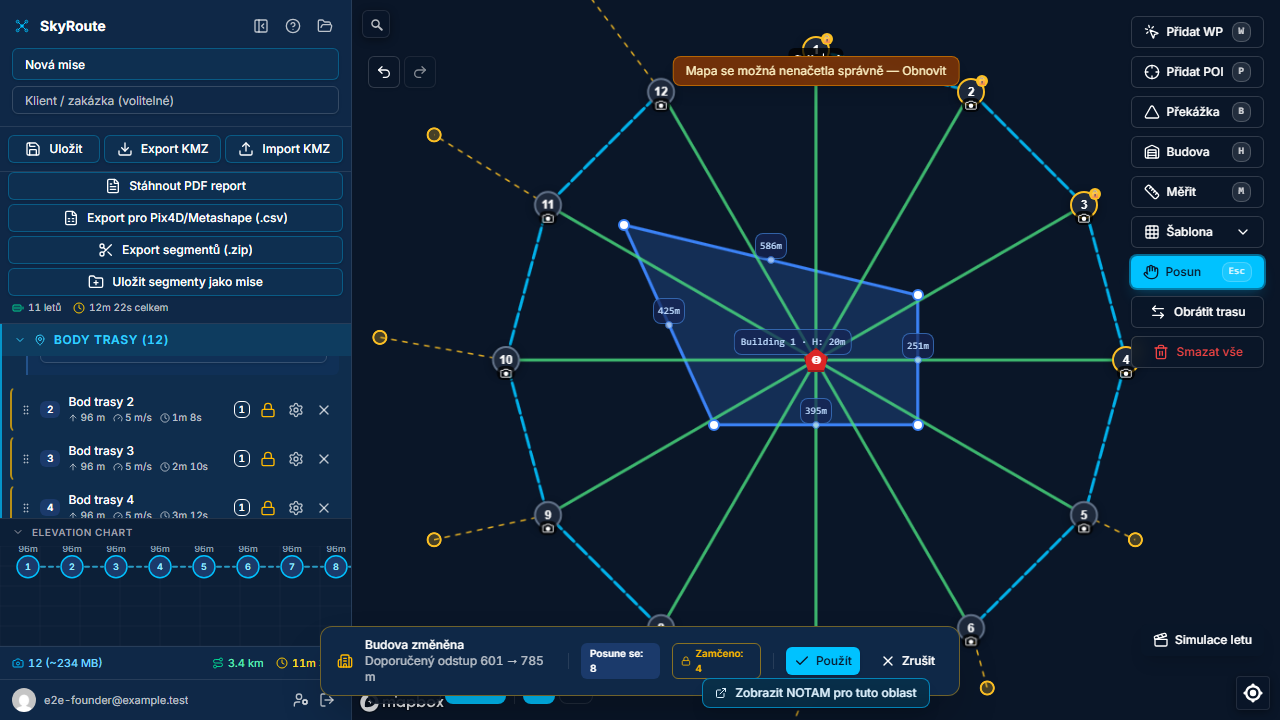
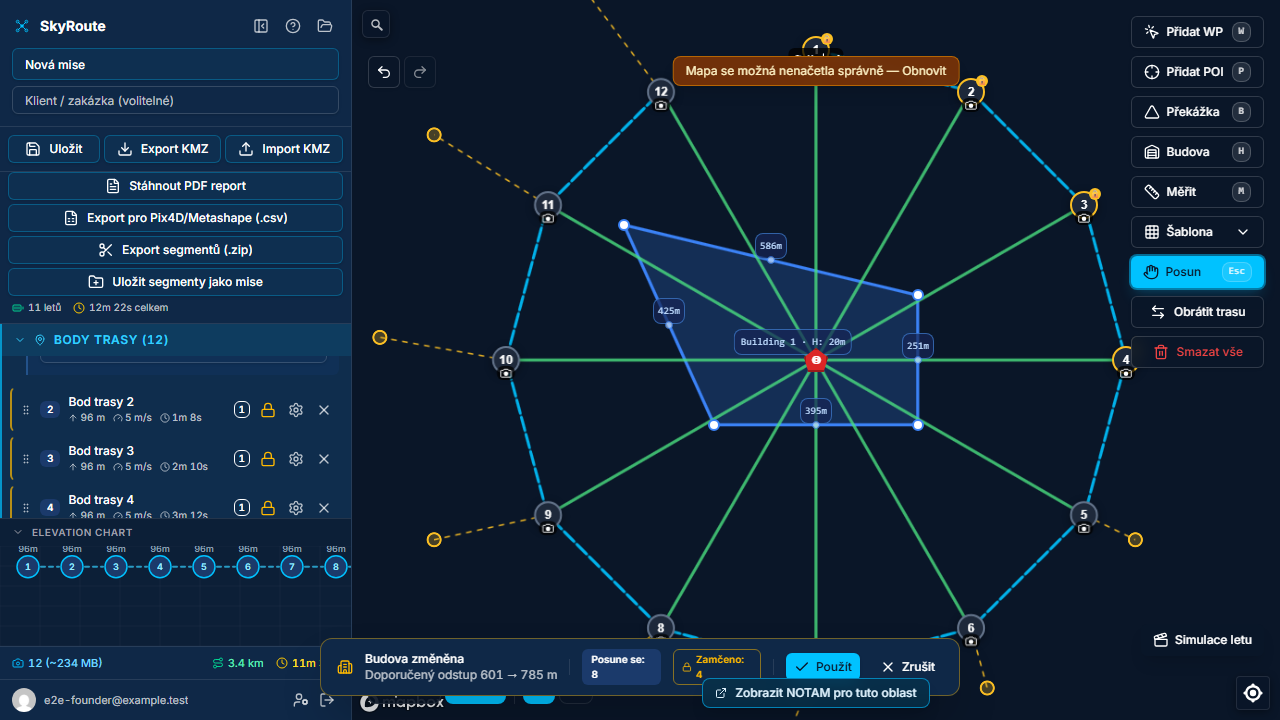
fix: keep the bottom action bars inside a phone screen (#175)
* chore: automatická záloha před git checkout

Rozdělaná práce (8 souborů) se ukládá, aby ji následující operace
nepřepsala. Commit vytvořil hook-autocommit.js.

* chore: keep local agent scratch out of the repo

Local editor tooling writes .claude/agent-memory notes and *.bak copies
beside the files it touches, and they had started riding along into commits.
Ignore both and drop the ones already tracked.

Claude-Session: https://claude.ai/code/session_01Gdo9hMyB1CAYq6KYDzVp6v

---------

Changed region(s): [[0.25, 0.8556, 0.75, 0.9778]]

diff --git a/e2e/tests/waypoint-lock-building-reflow.spec.ts b/e2e/tests/waypoint-lock-building-reflow.spec.ts
@@ -34,9 +34,6 @@ async function drawBuildingAndOrbit(page: Page) {
   await page.mouse.move(cx + 110, cy + 70, { steps: 10 });
   await page.mouse.up();
   await page.getByRole("button", { name: "Použít" }).last().click();
-  await expect(page.getByText(/^BUDOVY \(1\)$/i)).toBeVisible({
-    timeout: 10_000,
-  });
 
   // Same retry-until-painted dance as the building-menu spec: the fill layer
   // has to be rasterized before a click can find the building.
@@ -48,9 +45,12 @@ async function drawBuildingAndOrbit(page: Page) {
   await orbitFromMenu.click();
   await page.getByRole("button", { name: "Použít" }).last().click();
 
-  await expect(page.getByText(/^BODY TRASY \(\d+\)$/i)).toBeVisible({
-    timeout: 10_000,
-  });
+  // Waits on the map, not the sidebar: on a phone the panels start closed
+  // (App's `panelsHidden` default), so the sidebar headings aren't rendered
+  // and this helper has to work in both layouts.
+  await expect
+    .poll(() => page.locator(".mapboxgl-marker").count(), { timeout: 10_000 })
+    .toBeGreaterThan(5);
   return { cx, cy };
 }
 
@@ -140,5 +140,61 @@ test.describe("Waypoint locks and building reflow", () => {
 
     await page.getByRole("button", { name: "Použít" }).last().click();
     await expect(reflowBar).toBeHidden({ timeout: 10_000 });
+  });
+
+  test("both bottom bars stay inside a 375px viewport, with every button reachable", async ({
+    page,
+  }) => {
+    await page.setViewportSize({ width: 375, height: 812 });
+    await blockMapboxNetwork(page);
+    await dismissWelcomeDialogOnLoad(page);
+    await page.goto("/");
+    // A phone opens straight into the map with the panels closed (see App's
+    // `panelsHidden` default), so wait on the canvas, not the sidebar.
+    await page
+      .locator(".mapboxgl-canvas")
+      .first()
+      .waitFor({ state: "visible", timeout: 20_000 });
+
+    await drawBuildingAndOrbit(page);
+
+    await page.getByRole("button", { name: "Zobrazit panely (Tab)" }).click();
+    const firstRow = page.getByText("Bod trasy 1", { exact: true });
+    await expect(firstRow).toBeVisible({ timeout: 10_000 });
+    await firstRow.click();
+    await page
+      .getByText("Bod trasy 3", { exact: true })
+      .click({ modifiers: ["Shift"] });
+
+    // The selection bar outgrew a phone once it gained the lock button. It may
+    // scroll horizontally, but it must not lay itself out past the viewport
+    // with buttons stranded off-screen where nothing can reach them.
+    const selectionBar = page
+      .getByText("Vybráno:")
+      .locator('xpath=ancestor::div[contains(@class,"rounded-xl")][1]');
+    const barBox = await selectionBar.boundingBox();
+    expect(barBox).not.toBeNull();
+    expect(barBox!.x).toBeGreaterThanOrEqual(-1);
+    expect(barBox!.x + barBox!.width).toBeLessThanOrEqual(376);
+
+    // On a phone the sidebar is a drawer covering most of the screen, so close
+    // it before reaching for the bar underneath — that's the order an operator
+    // works in too.
+    await page.getByRole("button", { name: /Skrýt panely/ }).click();
+
+    // Playwright scrolls a target into its scroll container before clicking, so
+    // a successful click on the far-right button is the real reachability test.
+    await page.getByRole("button", { name: "Zamknout", exact: true }).click();
+    await expect(
+      page.getByRole("button", { name: "Odemknout", exact: true }),
+    ).toBeVisible();
+
+    const errors: string[] = [];
+    page.on("console", (msg) => {
+      if (msg.type() === "error" && !msg.text().includes("mapbox")) {
+        errors.push(msg.text());
+      }
+    });
+    expect(errors).toEqual([]);
   });
 });

diff --git a/packages/frontend/src/components/waypoint/BulkActionToolbar.tsx b/packages/frontend/src/components/waypoint/BulkActionToolbar.tsx
@@ -253,10 +253,13 @@ export function BulkActionToolbar() {
         : "mixed";
 
   return (
-    <div className="fixed bottom-6 left-1/2 -translate-x-1/2 z-50 animate-in slide-in-from-bottom-4 fade-in duration-200 tabular-nums">
-      <div className="bg-card border border-border rounded-xl shadow-2xl shadow-black/30 overflow-hidden">
+    // Capped to the viewport with the row scrolling inside it: this bar has
+    // grown past a phone's width, and without the cap its right-hand buttons
+    // (delete, clear selection) simply sat off-screen with nothing to scroll.
+    <div className="fixed bottom-6 left-1/2 -translate-x-1/2 z-50 max-w-[calc(100vw-1rem)] animate-in slide-in-from-bottom-4 fade-in duration-200 tabular-nums">
+      <div className="bg-card border border-border rounded-xl shadow-2xl shadow-black/30 overflow-hidden max-w-full">
         {/* Action bar */}
-        <div className="flex items-center gap-3 px-4 py-2.5">
+        <div className="flex items-center gap-3 px-4 py-2.5 overflow-x-auto">
           <Badge variant="default" className="text-xs px-2 py-0.5">
             Vybráno: {count}
           </Badge>
@@ -399,7 +402,7 @@ export function BulkActionToolbar() {
 
         {/* Bulk editor panel */}
         {showEditor && (
-          <div className="border-t border-border px-4 py-3 space-y-3 max-w-lg">
+          <div className="border-t border-border px-4 py-3 space-y-3 max-w-lg overflow-x-auto">
             <div className="grid grid-cols-3 gap-3">
               {/* Height */}
               <div>

diff --git a/packages/frontend/src/components/waypoint/BuildingReflowBar.tsx b/packages/frontend/src/components/waypoint/BuildingReflowBar.tsx
@@ -48,12 +48,15 @@ export function BuildingReflowBar() {
 
   return (
     <div
+      // Capped to the viewport and scrolled inside, same as BulkActionToolbar:
+      // the radius readout plus two badges plus two buttons is wider than a
+      // phone, and Použít/Zrušit must stay reachable.
       className={`fixed ${
         bulkToolbarVisible ? "bottom-24" : "bottom-6"
-      } left-1/2 -translate-x-1/2 z-50 animate-in slide-in-from-bottom-4 fade-in duration-200 tabular-nums`}
+      } left-1/2 -translate-x-1/2 z-50 max-w-[calc(100vw-1rem)] animate-in slide-in-from-bottom-4 fade-in duration-200 tabular-nums`}
     >
-      <div className="bg-card border border-amber-400/40 rounded-xl shadow-2xl shadow-black/30">
-        <div className="flex items-center gap-3 px-4 py-2.5">
+      <div className="bg-card border border-amber-400/40 rounded-xl shadow-2xl shadow-black/30 overflow-hidden max-w-full">
+        <div className="flex items-center gap-3 px-4 py-2.5 overflow-x-auto">
           <Building2 className="h-4 w-4 text-amber-400 shrink-0" />
           <div className="text-xs whitespace-nowrap">
             <div className="font-medium">Budova změněna</div>

diff --git a/changelog/fix-bottom-bars-fit-a-phone.md b/changelog/fix-bottom-bars-fit-a-phone.md
@@ -1,0 +1,1 @@
+- Fixed: on a phone, the selection bar's right-hand buttons (Smazat, and the × that clears the selection) were laid out past the edge of the screen with no way to scroll to them — the bar had quietly outgrown a 375px viewport. It and the building-reflow bar are now capped to the screen width and scroll sideways instead, so every button stays reachable.
